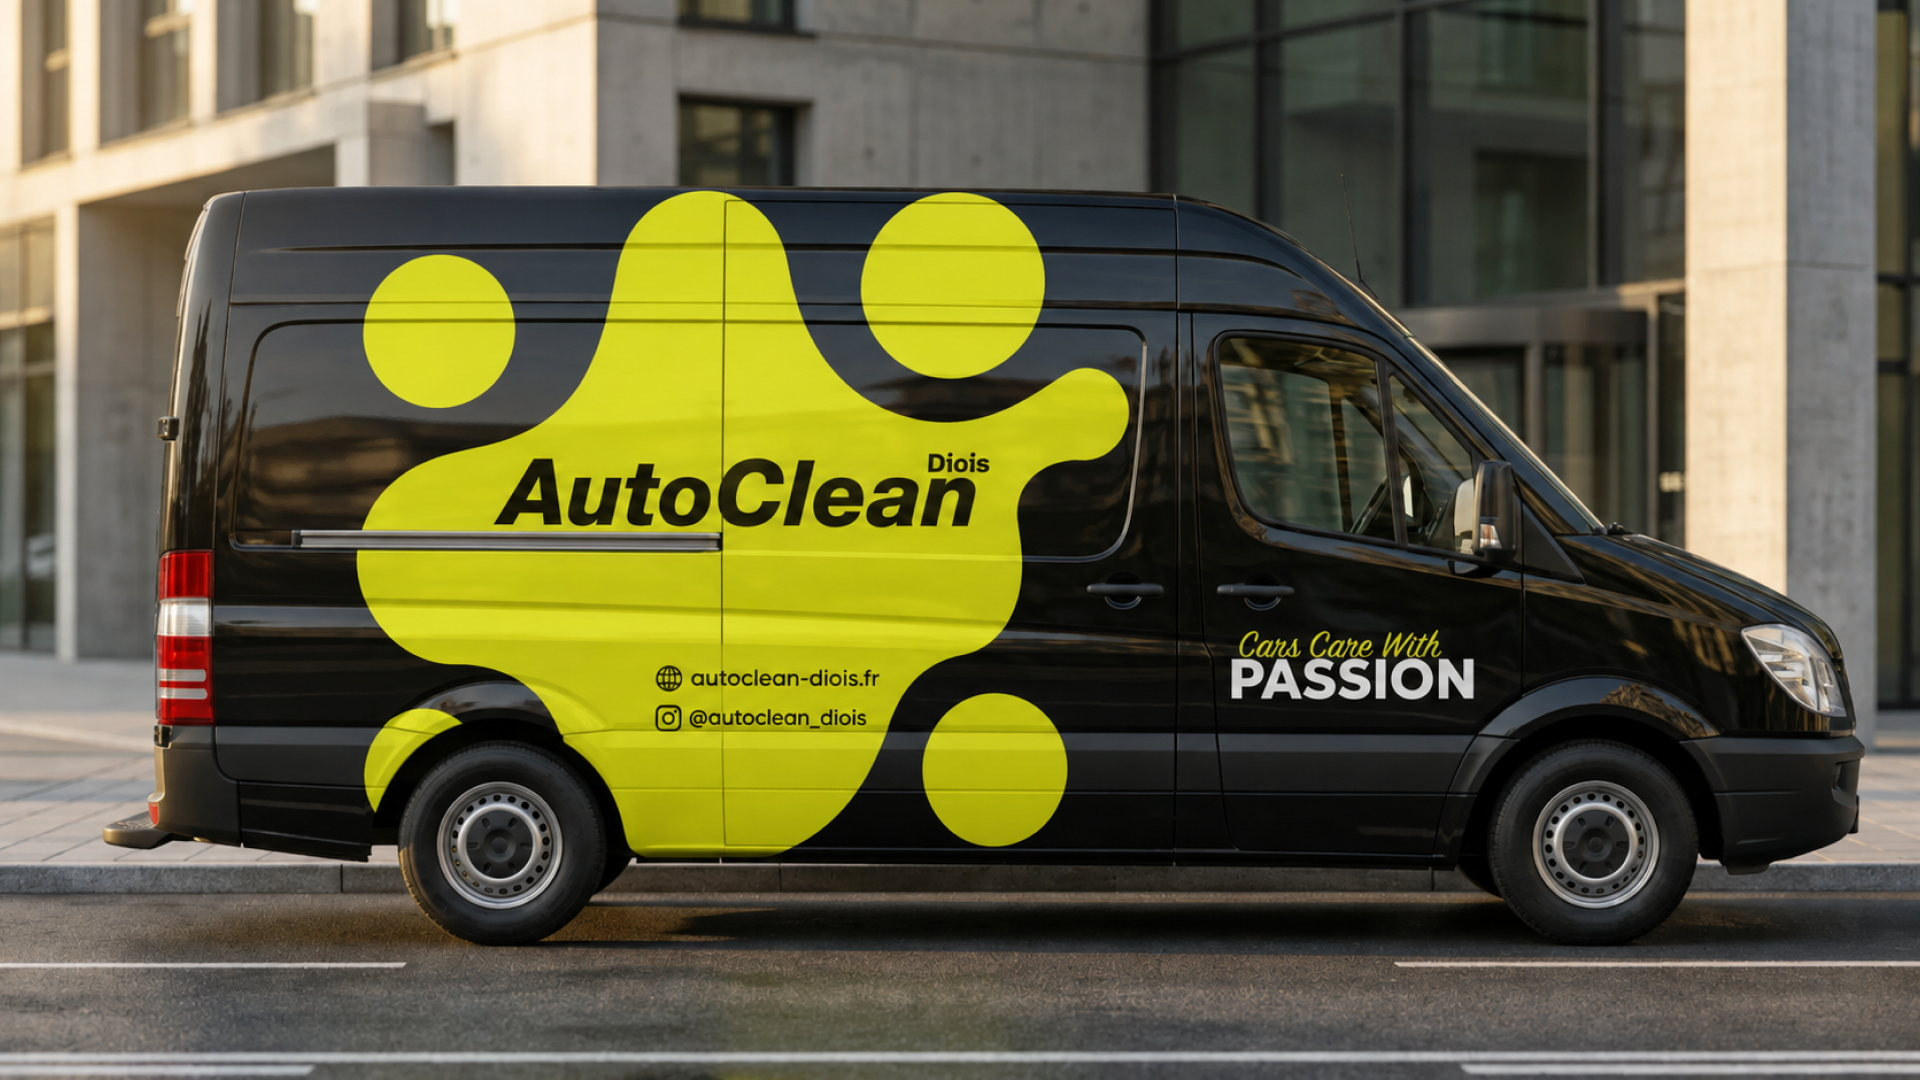
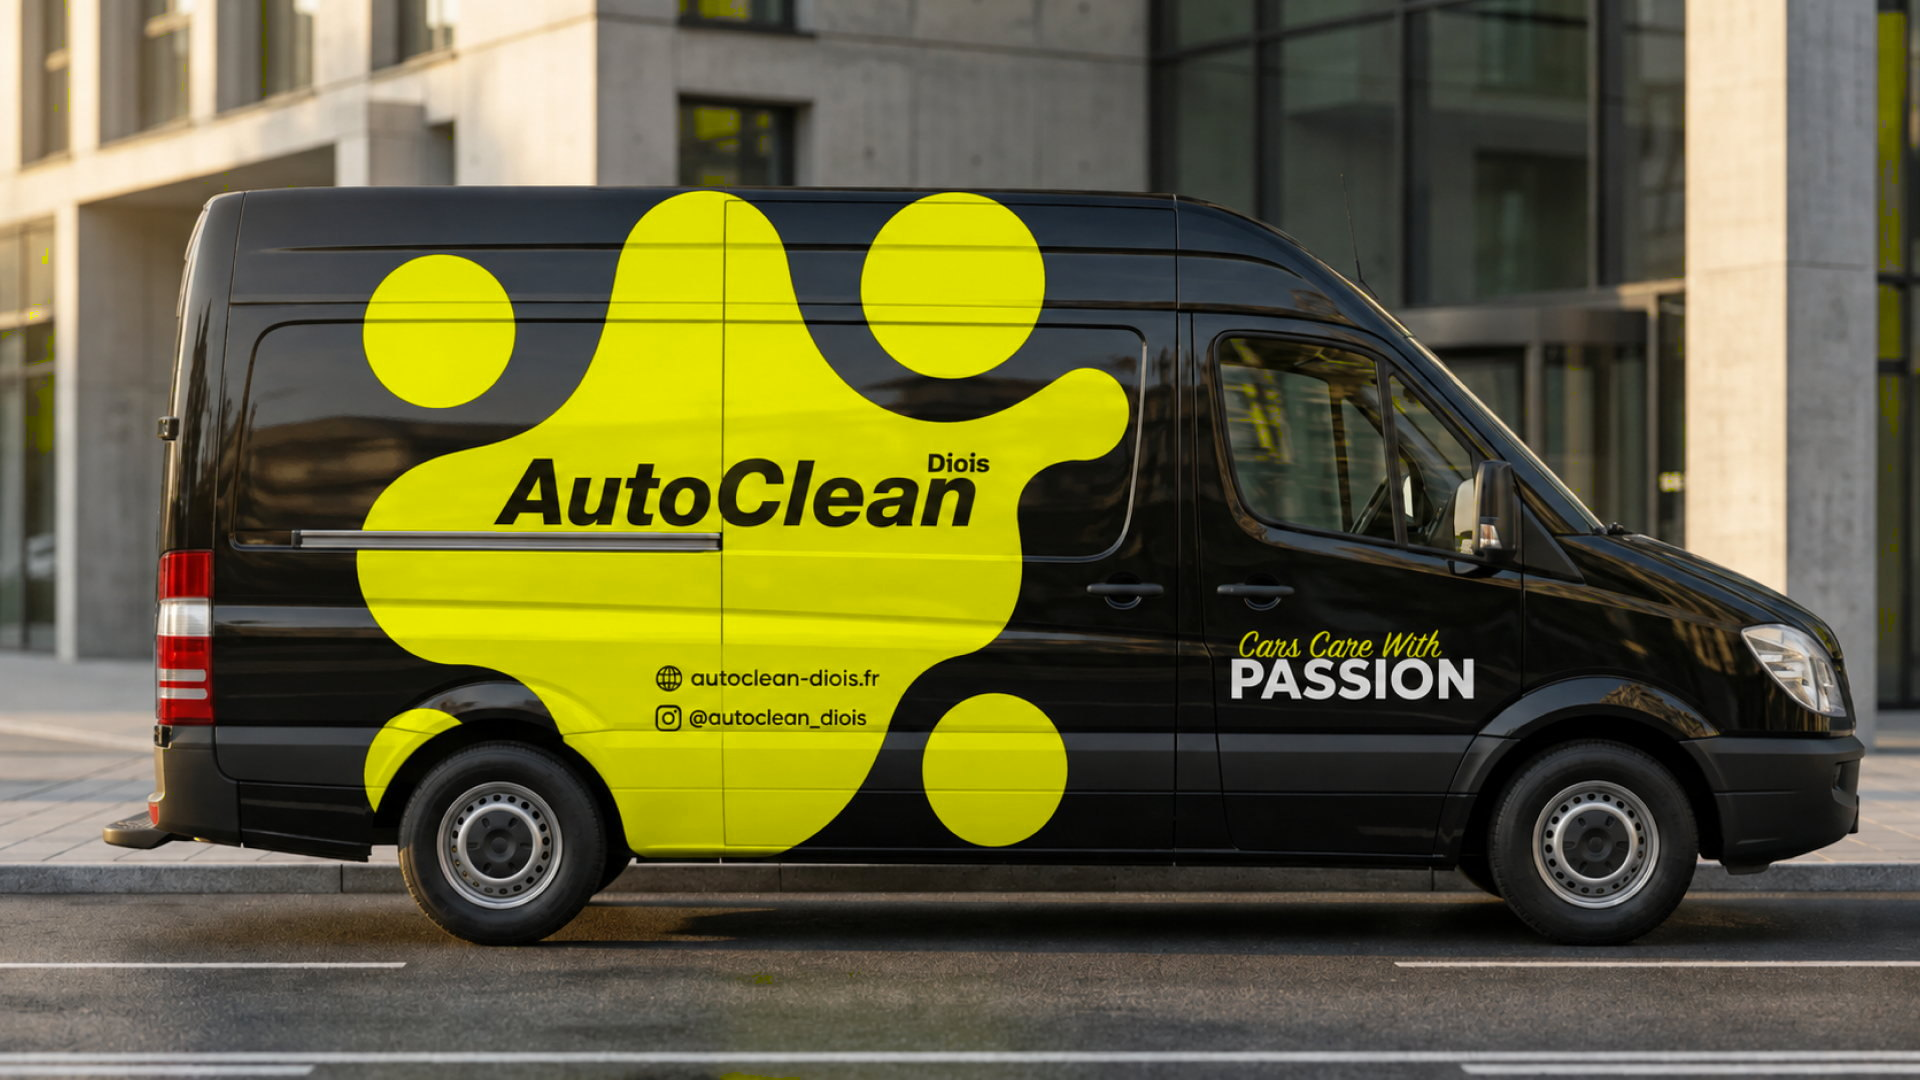
changement du jaune

diff --git a/lib/og.tsx b/lib/og.tsx
@@ -5,7 +5,7 @@ export const ogSize = { width: 1200, height: 630 };
 export const ogContentType = "image/png";
 
 /* Couleurs de la charte, dupliquées ici car l'OG est rendue hors CSS. */
-const JAUNE = "#ECF234";
+const JAUNE = "#FFFF00";
 const NOIR = "#000000";
 const BLANC = "#FFFFFF";
 const GRIS = "#C0C4C8";

diff --git a/app/globals.css b/app/globals.css
@@ -5,7 +5,7 @@
    Aucune valeur hexadécimale ne doit apparaître dans les composants.
 ------------------------------------------------------------------- */
 @theme {
-  --color-jaune: #ecf234;
+  --color-jaune: #ffff00;
   --color-noir: #000000;
   --color-gris: #c0c4c8;
   --color-blanc: #ffffff;

diff --git a/NOTES-A-CONFIRMER.md b/NOTES-A-CONFIRMER.md
@@ -59,3 +59,11 @@ Aucune de ces hypothèses ne bloque la structure du site : tout se corrige dans 
 ## Visuel du hero
 
 28. **Le hero de l'accueil affiche l'utilitaire floqué** issu de la charte. Deux points à trancher : c'est une image de présentation de marque, pas une photo de votre véhicule réel, et un utilitaire en pleine rue peut laisser penser à un service qui se déplace, alors que tout le site explique que le travail se fait exclusivement à l'atelier de Die. Si le doute vous gêne, une photo de l'atelier ou d'un habitacle fraîchement nettoyé collerait mieux au discours ; le remplacement se fait en changeant un seul chemin dans `app/page.tsx`.
+
+## Jaune de la charte
+
+29. **Le jaune officiel est `#FFFF00`.** Il est défini une seule fois, dans le jeton `--color-jaune` de `app/globals.css`. Tout le site s'y réfère par la classe `jaune` : un futur changement de teinte se fait donc à cet endroit unique, sauf pour les images de partage générées (`lib/og.tsx`), qui redéfinissent la couleur parce qu'elles sont rendues hors CSS.
+
+30. **Visuel du véhicule recoloré** : le flocage de l'utilitaire était dans l'ancien jaune. Comme il s'agit d'une photo avec des reflets et de l'ombre, les pixels jaunes ont été basculés vers le jaune pur en conservant les écarts de luminosité, plutôt qu'aplatis en une couleur unique. Le résultat est propre, mais si vous récupérez un jour le fichier source de ce visuel avec le bon jaune, il vaudra toujours mieux que ma retouche.
+
+31. **Contraste** : le nouveau jaune améliore le rapport avec le noir, qui passe de 17,3 à 19,6 pour 1. Il reste évidemment inutilisable en texte sur blanc (1,07 pour 1), ce que la charte interdisait déjà.

diff --git a/README.md b/README.md
@@ -149,6 +149,12 @@ public/llms.txt         résumé de l'activité pour les moteurs conversationnel
 - **Analytics** : aucun installé par défaut (zéro cookie → zéro bandeau). Recommandé : Vercel Analytics ou Plausible, tous deux sans cookie.
 - **Carte** : l'iframe Google Maps n'est chargée qu'après clic explicite (aucune requête tierce par défaut).
 
+## Couleurs
+
+Le jaune de la charte est `#FFFF00`, défini dans le jeton `--color-jaune` de `app/globals.css`. Aucun composant n'écrit la valeur en dur : ils utilisent tous la classe `jaune`. Seule exception assumée, `lib/og.tsx` redéfinit la couleur, parce que les images de partage sont rendues hors CSS.
+
+Combinaisons autorisées : noir sur jaune, jaune sur noir, blanc sur noir, noir sur blanc. Le jaune en texte sur fond blanc est proscrit, son contraste est de 1,07 pour 1.
+
 ## Sécurité
 
 Les en-têtes sont définis dans `next.config.ts` (Next n'en pose aucun par défaut) :
